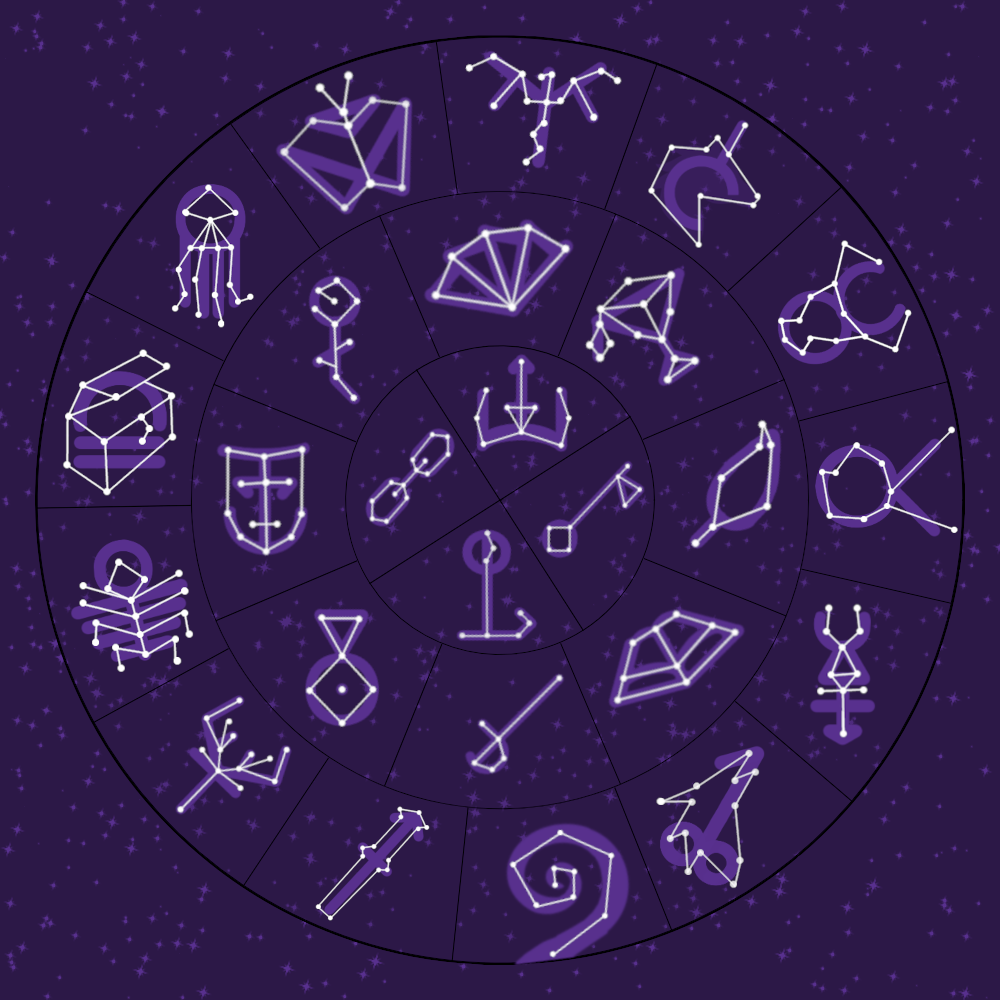
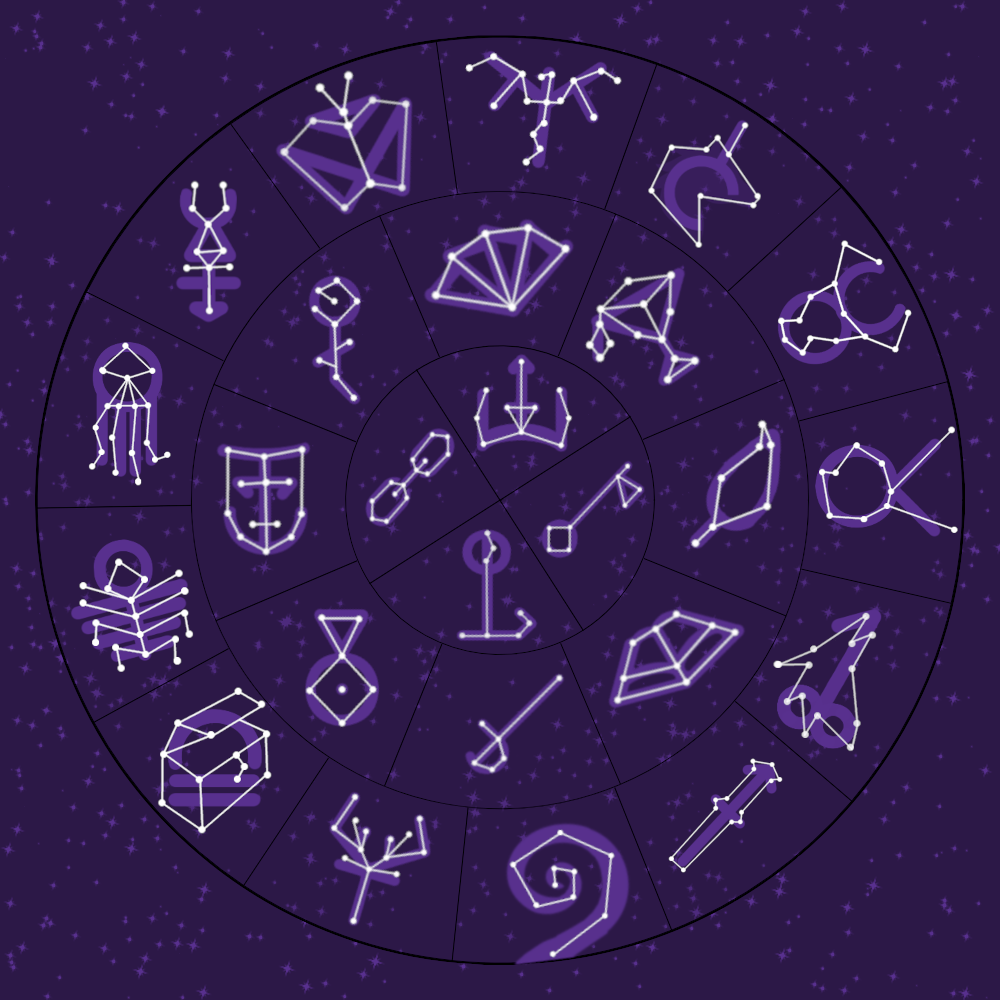
Add files via upload

diff --git a/untangle_engine.js b/untangle_engine.js
@@ -19,6 +19,7 @@ function setupCurrentLevel()
 	untangleGame.moons = [];
 
 	var level = untangleGame.levels[untangleGame.currentLevel];	
+	untangleGame.backgroundSrc = level.backgroundSrc ?? untangleGame.backgroundSrc;
 	var ctx = untangleGame.layers[0];
 	var center_x = ctx.canvas.width * 0.5;
 	var center_y = ctx.canvas.height * 0.5;
@@ -28,10 +29,23 @@ function setupCurrentLevel()
 		for (let i=0; i < level.moons.length; ++i)
 		{
 			moon = level.moons[i];
-			moon.dist = moon.dist ?? defaultMoonDist * (3 - i)
+			moon.dist = moon.dist ?? defaultMoonDist * (3 - i)			
+			moon.path = []
 			untangleGame.moons.push(new Moon(moon))
 		}
-		updateMoons(untangleGame.day);
+		
+		
+		for (let d=0; d<365; ++d)
+		{
+			updateMoons(d+1)
+			for (let i=0; i < untangleGame.moons.length; ++i)
+			{				
+				let moon = untangleGame.moons[i];
+				moon.path.push({x:moon.x, y:moon.y});
+			}
+		}
+		
+		updateMoons(untangleGame.day);		
 	}
 	
 	if (level.domains)
@@ -74,6 +88,14 @@ function drawLayerBG()
 {
 	var ctx = untangleGame.layers[0];
 	clear(ctx);
+	
+	var ch = ctx.canvas.height
+	var cx = ctx.canvas.width * 0.5;
+	var cy = ctx.canvas.height * 0.5;
+	var dx = cx - cy;
+	var dy = 0
+	
+	ctx.drawImage(untangleGame.background, dx, dy, ch, ch);
 }
 
 // draw graphics that related to the game canvas
@@ -87,7 +109,9 @@ function drawLayerGame()
 	// clear the canvas before drawing.
 	clear(ctx);
 	
+	if (untangleGame.flags["path"]) DrawMoonPath(ctx);
 	DrawMoons(ctx, level);
+	
 	DrawDomainLinks(ctx, level);
 	DrawDomains(ctx, level);
 }
@@ -144,10 +168,24 @@ $(function(){
 
 	// setup current level
 	setupCurrentLevel();
+	
+	// load the background image
+	
+	untangleGame.background = new Image();	
+	untangleGame.background.onload = function() 
+	{
+		// setup an interval to loop the game loop
+		setInterval(gameloop, 30);
+		startAutoUpdate();
+	}
+	untangleGame.background.onerror = function() 
+	{
+		console.log("Error loading the image.");
+	}
+	untangleGame.background.src = untangleGame.backgroundSrc;	
+	console.log(untangleGame.background.src)
+	
 
-	// setup an interval to loop the game loop
-	setInterval(gameloop, 30);
-	startAutoUpdate();
 	
 	$( "#slider" ).slider({
 		range: "min",
@@ -172,6 +210,19 @@ $(function(){
 			startAutoUpdate();
 		}, 10000);
 		updateDay((untangleGame.day + 1) % 365)
+	})
+	
+	$(window).keydown(function (e) 
+	{
+		var dirty = false;
+		//alert(e.which);
+		var key = String.fromCharCode(e.which);
+		
+		if (key == "p" || key == "P")
+		{
+			untangleGame.flags["path"] = untangleGame.flags["path"] ?? false
+			untangleGame.flags["path"] = !untangleGame.flags["path"]
+		}
 	})
 		
 /*	    

diff --git a/untangle_moons.js b/untangle_moons.js
@@ -103,6 +103,61 @@ function formatDay () {
     return formattedDate
 }
 
+
+
+
+function DrawMoonPath(ctx)
+{
+	for(var i=0; i < untangleGame.moons.length;++i)
+	{
+		let moon = untangleGame.moons[i];
+		let pointCount = moon.path.length;
+		let thick = moon.r / defaultMoonSize;
+		let color = moon.pathColor;
+
+		if (moon.r == 0 || !color) continue;
+
+		for (var p = 0; p < pointCount; ++p)
+		{
+			var start = moon.path[p];
+			var end = moon.path[(p+1)%pointCount];
+			var rx = 0;
+			var ry = 0;
+			if (start && end && start != end)
+			{
+				var x = end.x - start.x;
+				var y = end.y - start.y;
+				var v = new Point(x,y);
+				v = normal(v);
+				nx = v.x;
+				ny = v.y;				
+				//Rotate the vector
+				theta = Math.radians(0);
+				cs = Math.cos(theta);
+				sn = Math.sin(theta);
+				rx = nx * cs - ny * sn; 
+				ry = nx * sn + ny * cs;
+				//Scale it
+				rx = rx * 0//linkOffsets[type];
+				ry = ry * 0//linkOffsets[type];				
+				
+				var avoidPoints = [];
+
+				drawLine(ctx, start.x + rx, 
+							  start.y + ry, 
+							  end.x + rx, 
+							  end.y + ry, 
+							  color, 
+							  color, 
+							  thick);
+			}
+		}
+	}
+}
+
+
+
+
 function DrawMoons(ctx, level)
 {
 	// draw the demiplane
@@ -113,6 +168,9 @@ function DrawMoons(ctx, level)
 	for (let moon=0; moon < numMoons; ++moon)
 	{
 		const {name, x, y, r, p} = untangleGame.moons[moon];
+		
+		if (r == 0) continue;
+
 		drawMoon(ctx, name, x, y, r, p);
 	}
 }

diff --git a/untangle_data.js b/untangle_data.js
@@ -9,7 +9,7 @@ var untangleGame = {
 	boldLineThickness: 3,
 	lines: [],
 	currentLevel: json["world"] ?? 0,
-	backgroundSrc: "http://larp.seventh-age.com/images/Dischordia.jpg",
+	backgroundSrc: "Zodiac_Shifted.png",
 	layers: [],
 	flags: []
 };
@@ -21,28 +21,44 @@ levelsMoon =
 		{
 			name: "Queen", 
 			dist: 350,
-			size: defaultDomainSize * 3,
+			size: defaultMoonSize * 3,
 			cycle: 90,
-			sidereal: 3,
+			sidereal: 4,
 			phases: ["🌕","🌖","🌖","🌗","🌘","🌘","🌑","🌑","🌑","🌑","🌒","🌒","🌓","🌔","🌔","🌕","🌕","🌕"],
+			pathColor: "#0000FF"
+		},
+		{
+			name: "",
+			size: 0,
+			dist:175,
+			cycle: 1,
+			sidereal: 1,
+			dir:-1,
+			phases:[""],
 		},
 		{
 			name: "Minister", 
-			size: defaultDomainSize * 2,
-			dist: 175,
+			size: defaultMoonSize * 2,
+			//dist: 175,
+			dist: defaultMoonSize * 3,
 			cycle: 45,
+			//sidereal: 9,
 			sidereal: 9,
 			dir: -1,
 			phases: ["🌕","🌕","🌖","🌗","🌗","🌘","🌑","🌑","🌑","🌒","🌓","🌓","🌔"],
+			pathColor: "#00ff00",
+			parent: 1
 		},
 		{
 			name: "Advisor", 
-			size: defaultDomainSize,
-			dist: defaultDomainSize * 9,
+			size: defaultMoonSize,
+			dist: defaultMoonSize * 9,
 			cycle: 28,
-			sidereal: 13,
+//			sidereal: 10,
+			sidereal: 9,
 			dir: -1,
 			phases: ["🌕","🌖","🌖","🌗","🌘","🌘","🌑","🌒","🌓","🌔"],
+			pathColor: "#ff0000",
 			parent: 0
 		}
 	]

diff --git a/untangle_draw.js b/untangle_draw.js
@@ -3,7 +3,7 @@ function clear(ctx)
 	ctx.clearRect(0,0,ctx.canvas.width,ctx.canvas.height); 
 }
 
-function drawLine(ctx, x1, y1, x2, y2, color1, color2, thickness, label, avoidPoints) 
+function drawLine(ctx, x1, y1, x2, y2, color1, color2, thickness, label="", avoidPoints=[]) 
 {		
 	ctx.beginPath();
 	ctx.lineWidth = thickness;
@@ -14,7 +14,7 @@ function drawLine(ctx, x1, y1, x2, y2, color1, color2, thickness, label, avoidPo
 	ctx.fillStyle = domain_gradient;
 	ctx.strokeStyle = domain_gradient;
 	
-    drawArrow(ctx,x1,y1,x2,y2,3,1,Math.PI/12,30, avoidPoints);		
+    drawArrow(ctx,x1,y1,x2,y2,3,1,Math.PI/12,30, avoidPoints);
 	
 	if (untangleGame.flags["Labels"])
 	{
@@ -143,6 +143,8 @@ var drawArrow=function(ctx,x1,y1,x2,y2,style,which,angle,d, avoidPoints)
 	var lineangle=Math.atan2(y2-y1,x2-x1);
 	// h is the line length of a side of the arrow head
 	var h=Math.abs(d/Math.cos(angle));
+		
+	return;
 	
 	if(which&1)
 	{	// handle far end arrow head

diff --git a/untangle_types.js b/untangle_types.js
@@ -39,9 +39,11 @@ function Moon(moon) {
 	this.cycle = moon.cycle ?? 28;
 	this.sidereal = moon.sidereal ?? null;
 	this.offset = moon.offset ?? 0;
-	this.phases = moon.phases || ["🌕","🌖","🌗","🌘","🌑","🌒","🌓","🌔"]
-	this.parent = moon.parent
-	this.dir = moon.dir || 1
+	this.phases = moon.phases || ["🌕","🌖","🌗","🌘","🌑","🌒","🌓","🌔"];
+	this.parent = moon.parent;
+	this.path = moon.path || [];
+	this.pathColor = moon.pathColor;
+	this.dir = moon.dir || 1;
 	this.r = moon.size ?? defaultMoonSize;	
 	this.d = moon.dist ?? defaultMoonDist;
 	this.x = 0;
